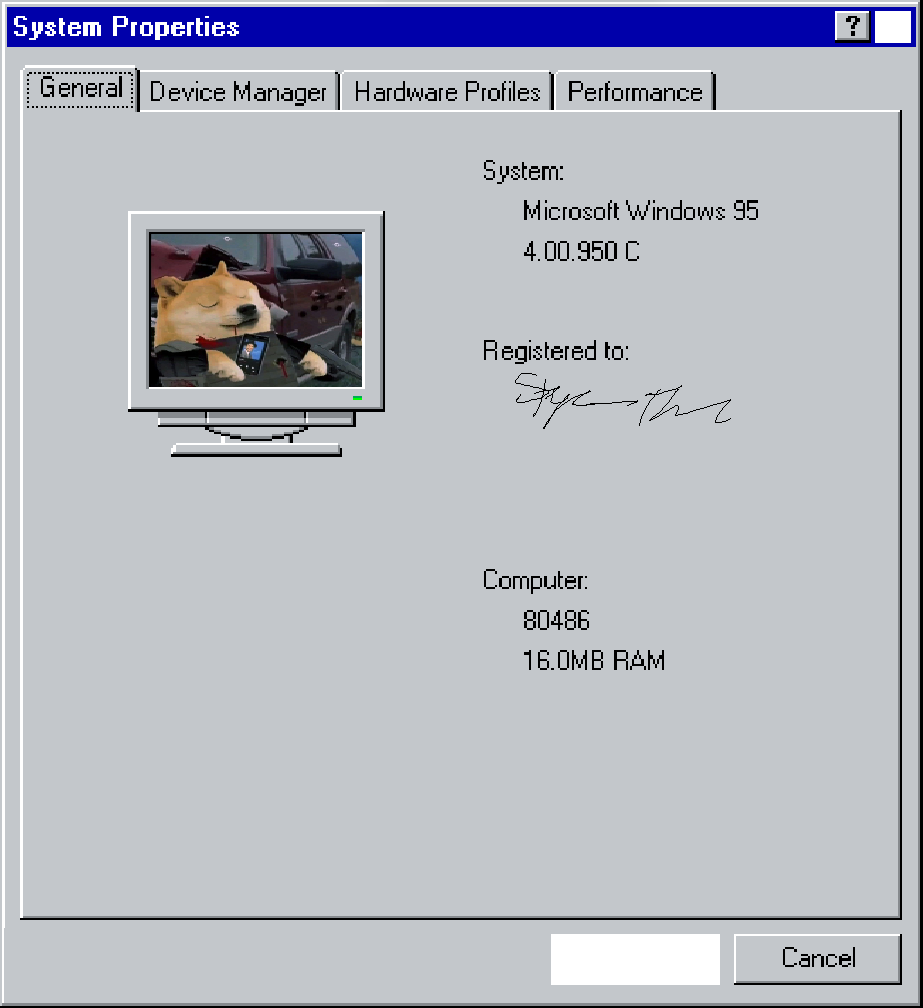
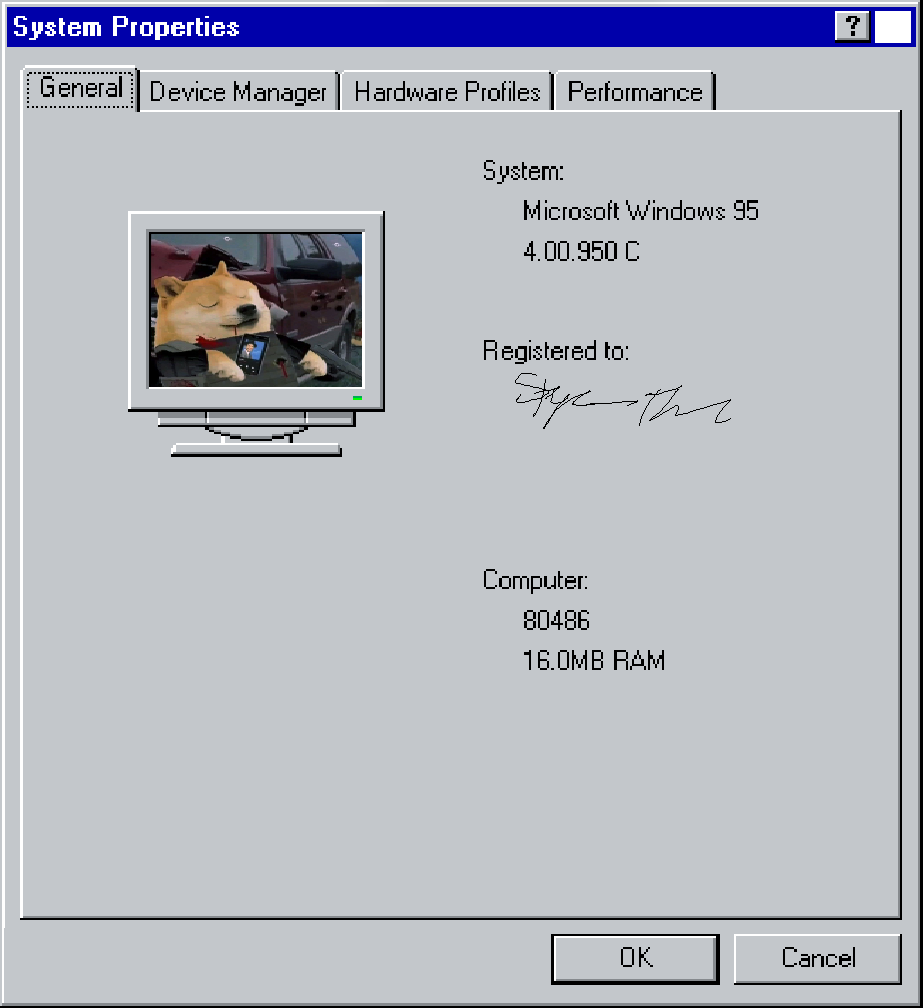
Fixes?

Changed region(s): [[0.5764, 0.9226, 0.7887, 0.9841]]

diff --git a/main.js b/main.js
@@ -38,8 +38,8 @@ function documentbuttonfunc(){
 function systempagefunc(){
     var systempage = document.getElementById("systempageid")
     var systempagex = document.getElementById("systempagexid")
-    var systempageok = document.getElementById("systempageokid")
-    systempageok.style.display = "block";
+    //var systempageok = document.getElementById("systempageokid") Fix this at some point
+    //systempageok.style.display = "block";
     systempagex.style.display = "block";
     systempage.style.display = "block";
 }
@@ -61,8 +61,8 @@ function quitdocumentbuttonfunc(){
 function quitsystempagefunc(){
     var systempage = document.getElementById("systempageid")
     var systempagex = document.getElementById("systempagexid")
-    var systempageok = document.getElementById("systempageokid")
-    systempageok.style.display = "none";
+    //var systempageok = document.getElementById("systempageokid") Fix this at some point
+    //systempageok.style.display = "none";
     systempagex.style.display = "none";
     systempage.style.display = "none";
 }

diff --git a/index.html b/index.html
@@ -36,7 +36,7 @@
             <input type="image" class="documentfolderx" id="documentfolderxid" src="/assets/SystemXButton.png" onclick="quitdocumentbuttonfunc()" alt="">
             <img class="systempage" id="systempageid" src="/assets/System.png" alt="">
             <input type="image" class="systempagex" id="systempagexid" src="/assets/SystemXButton.png" onclick="quitsystempagefunc()" alt="">
-            <input type="image" class="systempageok" id="systempageokid" src="/assets/SystemOkButton.png" onclick="quitsystempagefunc()" alt="">
+            <!--<input type="image" class="systempageok" id="systempageokid" src="/assets/SystemOkButton.png" onclick="quitsystempagefunc()" alt=""> Fix this code by some point--> 
          </center>
         <script src="main.js" type="text/javascript"></script> <!-- DO NOT PUT ANYTHING UNDER THIS SCRIPT (JS NEEDS TO LOAD LAST) -->
     </body>

diff --git a/style.css b/style.css
@@ -115,9 +115,9 @@
 
 .systempageok{
     display: none;
-    top: 72.25%;
-    left: 52.9%;
-    position:absolute;
+    bottom: 3%;
+    left: 30%;
+    position:relative;
     width: 5.5%;
     z-index: 1;
     opacity: 90%;
